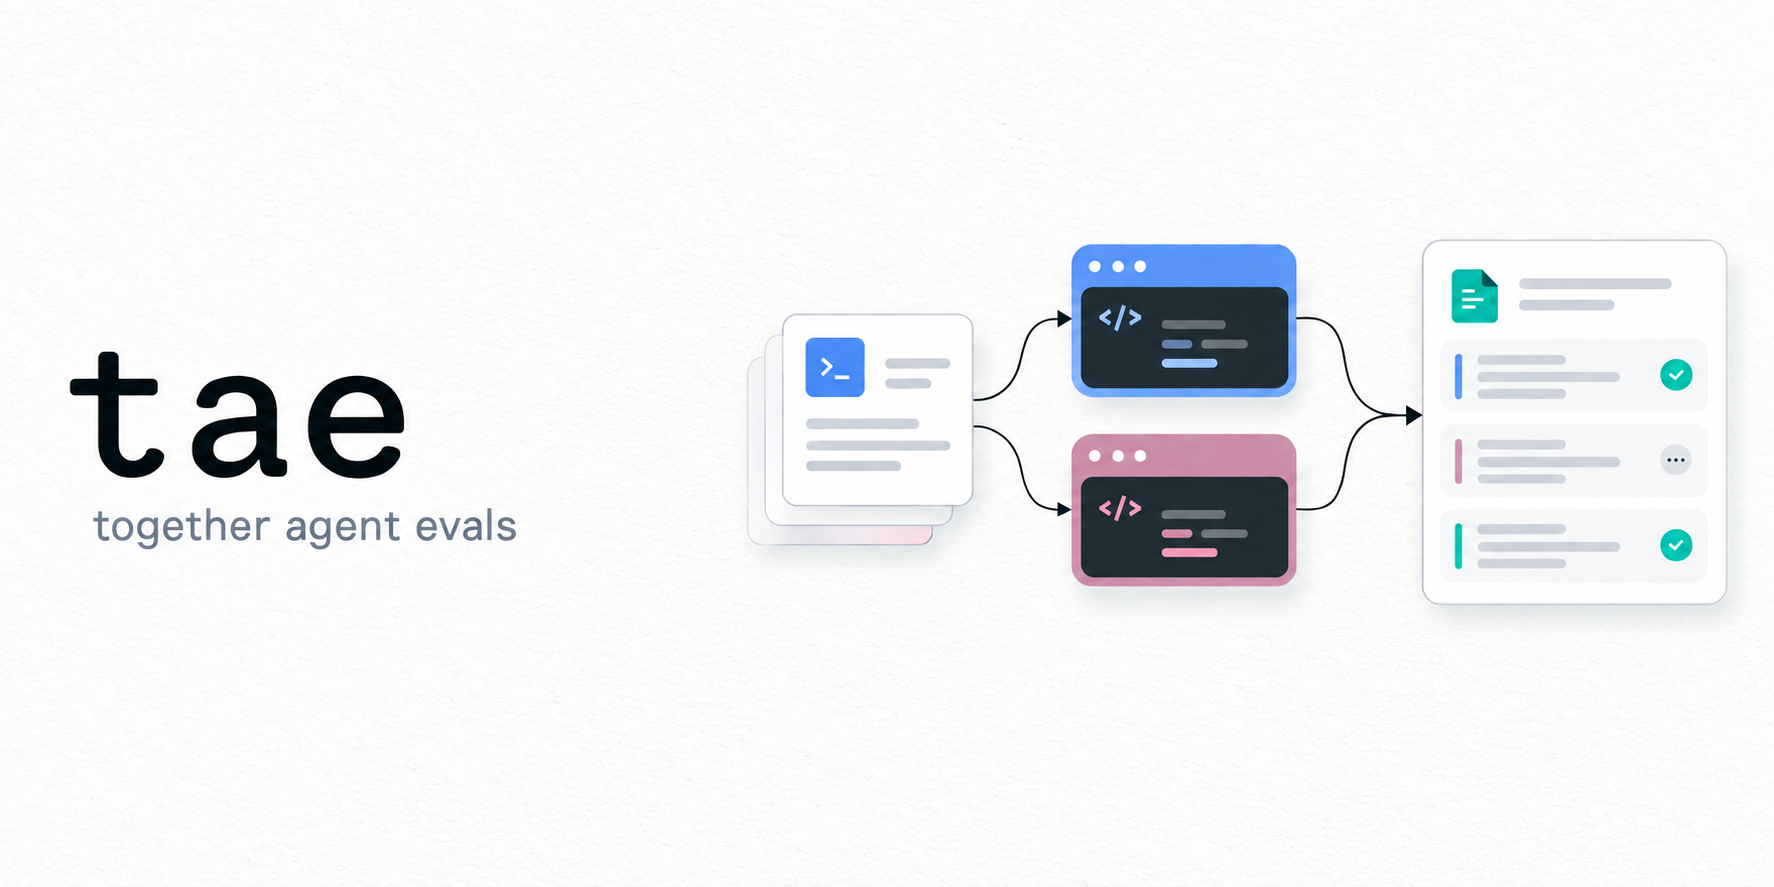
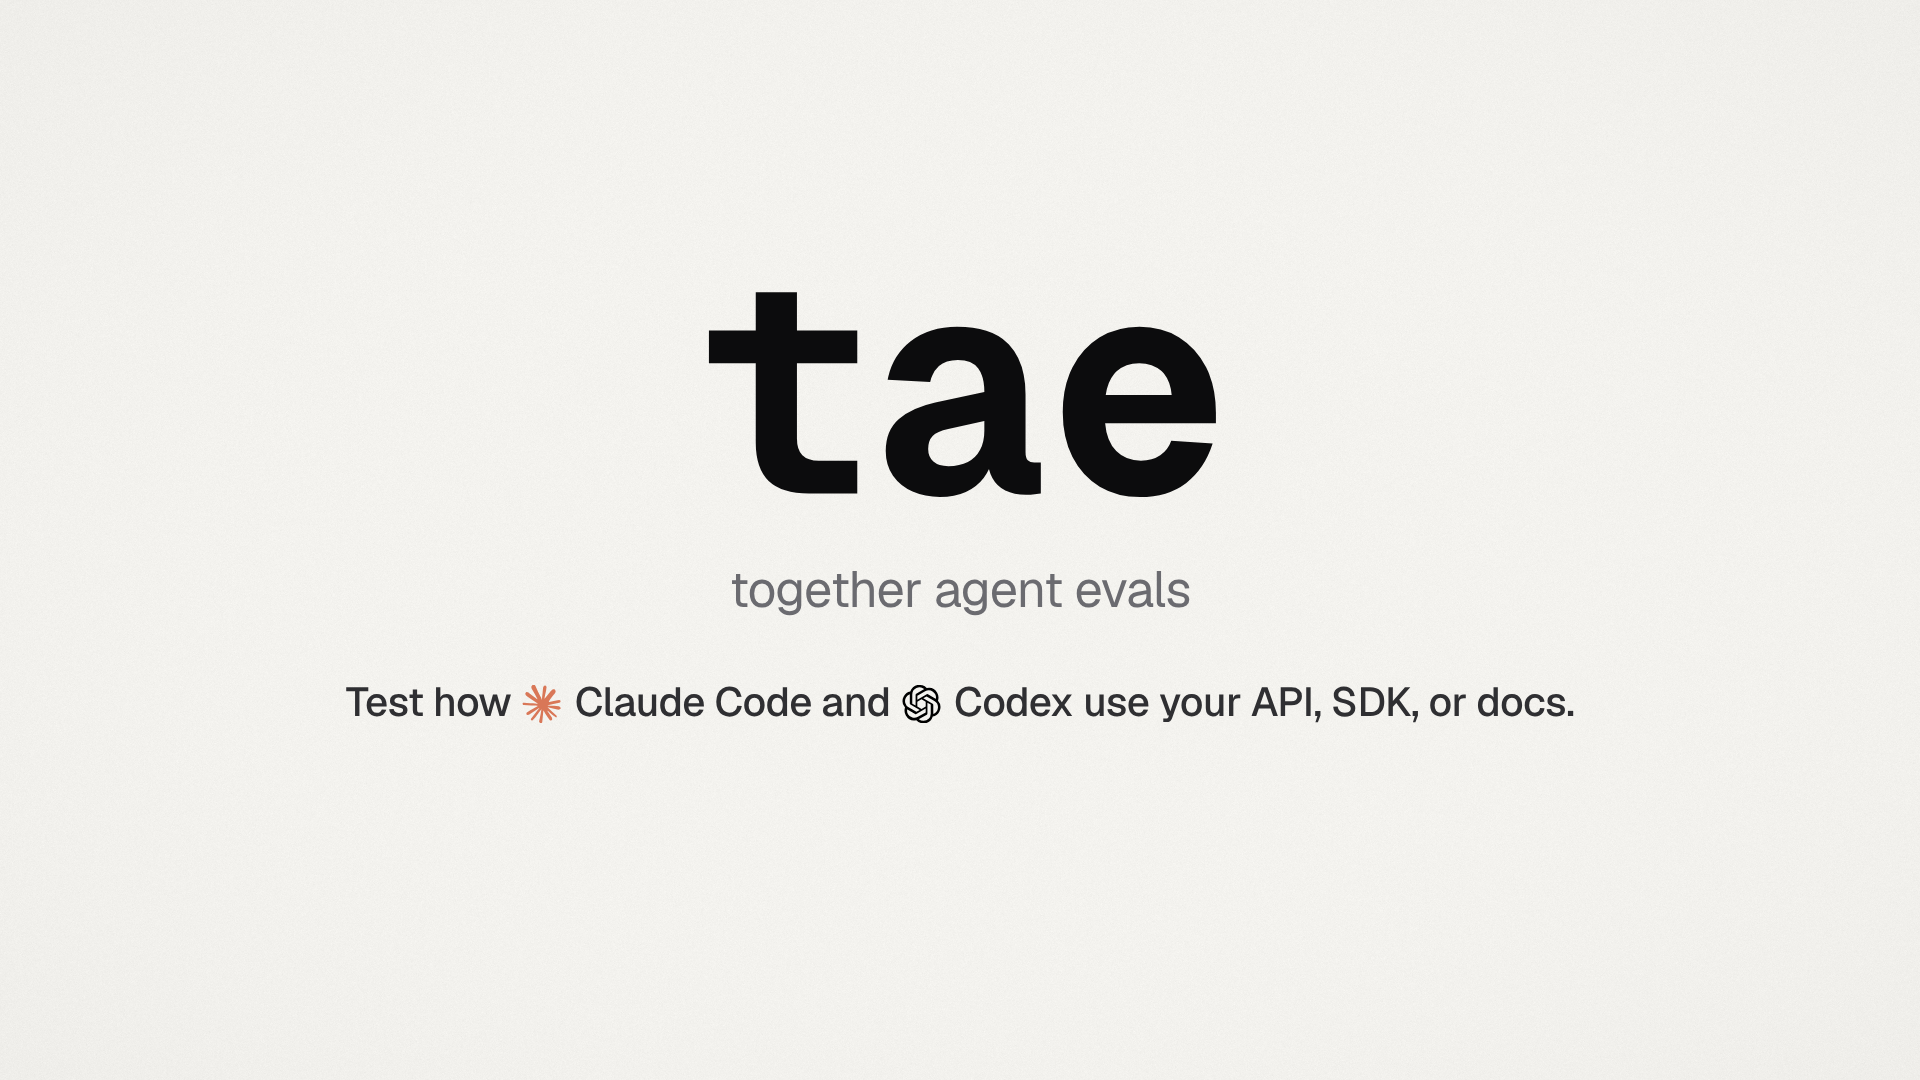
Make the README more concise (#13)
* Make the README more concise

* Use a neutral README section heading

* Use the launch poster as the README hero

diff --git a/README.md b/README.md
@@ -1,52 +1,56 @@
-![tae · together agent evals. Tasks run through coding agents and produce evidence for evaluation.](docs/assets/readme-hero.png)
+![TAE — Together Agent Evals. Test how Claude Code and Codex use your API, SDK, or docs.](docs/assets/readme-hero.png)
 
 # Together Agent Evals
 
-Test how Claude Code and Codex use an API, SDK, or documentation. Score each run
-with deterministic checks, an LLM Judge, or both, then inspect the saved evidence
-in a local viewer.
+Run Claude Code or Codex against real tasks and record what they did. Score each
+run with deterministic code, an LLM Judge, or both, then inspect the transcript,
+API calls, tool use, and artifacts in a local viewer.
 
 ## Quick start
 
-Quickstart runs one local task with Claude Code. Set either
-`ANTHROPIC_API_KEY` or `CLAUDE_CODE_OAUTH_TOKEN`, then run:
+Install Node.js 22.13 or newer and Claude Code, then clone the repository:
 
 ```sh
 git clone https://github.com/Nutlope/together-agent-evals.git
 cd together-agent-evals
+cp .env.example .env.local
+```
+
+Add either `ANTHROPIC_API_KEY` or `CLAUDE_CODE_OAUTH_TOKEN` to `.env.local`,
+then run:
+
+```sh
 npm run quickstart
 ```
 
-Quickstart installs dependencies, runs one copy-message task, and starts the
-viewer. It does not need a Together key, Judge, E2B account, or database. Your
-agent provider may charge for the run.
+This installs the local dependencies, runs the `copy-message` task, and opens
+the results viewer. It does not need a Together key, Judge, E2B account, or
+database.
 
-Results are saved in `.tae/results-v1`. Reopen them with:
-
-```sh
-npm run view
-```
-
-> [!WARNING]
 > Local runs execute agent code on your computer with network access. They are
-> not a security sandbox. Only run tasks, checks, and suites you trust.
+> not a security sandbox. Only run tasks, checks, and Suites you trust.
 
-E2B tasks can also prevent an exact expensive or destructive API request from
-reaching the provider. See [request blocking](docs/authoring.md#block-an-expensive-or-destructive-request).
+## How it works
 
-## Create a minimal evaluation
+1. A **Task** gives the agent a prompt and any files it needs.
+2. A **Suite** chooses the Tasks, agents, models, conditions, repeats, and
+   scoring mode.
+3. TAE runs the matrix, evaluates the captured evidence, and saves each result
+   for review and comparison.
+
+Create a starter Suite and run it with:
 
 ```sh
 npm run setup
-npm run tae -- init my-evals
-npm run tae -- validate my-evals/example.suite.mjs
-npm run tae -- run my-evals/example.suite.mjs --view
+npm run tae -- init
+npm run tae -- validate
+npm run tae -- run --view
 ```
 
-This creates one Suite and one Task:
+Each Task keeps its instructions and evaluation together:
 
 ```text
-my-evals/
+evals/
 ├── example.suite.mjs
 └── tasks/
     └── copy-message/
@@ -55,25 +59,7 @@ my-evals/
         └── fixtures/message.txt
 ```
 
-The Suite selects what runs and how it is scored:
-
-```js
-import { defineSuite } from "tae";
-
-export default defineSuite({
-  tasks: ["./tasks/copy-message"],
-  agents: [{ runner: "claude-code" }],
-  verdict: "code",
-});
-```
-
-The Task's `prompt.md` tells the Agent what to do:
-
-```md
-Read `fixtures/message.txt` and write its exact contents to `answer.txt`.
-```
-
-Its `checks.mjs` evaluates the captured result:
+Checks run against the captured result:
 
 ```js
 import { defineChecks } from "tae";
@@ -86,6 +72,7 @@ export default defineChecks((run) => {
     format: "text",
     maxBytes: 4096,
   });
+
   run.check({
     id: "exact-copy",
     passed: run.artifacts.text("answer.txt") === "Hello from the fixture.\n",
@@ -94,88 +81,19 @@ export default defineChecks((run) => {
 });
 ```
 
-A **Task** can also include workspace files and preventive guards. A **Suite**
-can add models, conditions, repeats, an LLM Judge, and additional Tasks without
-changing this basic structure.
+Use `code` for deterministic checks, `judge` for an LLM rubric, or `hybrid`
+when both must pass. Tasks can also block an exact expensive or destructive
+request before it reaches the provider.
 
-For an E2B Task, add an optional `guard.mjs` to prevent an exact request from
-reaching the API:
+## Included evaluations
 
-```js
-import { defineGuard } from "tae";
+The repository includes Together API tasks for chat, RAG search, tool calling,
+and GPU discovery. See [Together evaluations](evals/together/README.md) for the
+tasks, costs, credentials, and scoring behavior.
 
-export default defineGuard((guard) => {
-  guard.block.request({
-    id: "no-reservation",
-    method: "POST",
-    path: "/v1/compute/clusters",
-  });
-});
-```
+## Documentation
 
-TAE records each guard as a deterministic check. A forbidden attempt receives a
-synthetic `403` and is never forwarded to the target API.
-
-Choose one scoring mode:
-
-- `code`: deterministic checks decide the result.
-- `judge`: the Task's rubric decides the result.
-- `hybrid`: both the required checks and Judge must pass.
-
-See the [authoring guide](docs/authoring.md) and
-[copy-message example](examples/copy-message/example.suite.mjs).
-
-## Run the Together evaluations
-
-The included Together tasks cover chat, RAG search, tool calling, and GPU
-discovery without reservation.
-
-Add these credentials to the ignored `.env.local` file:
-
-```sh
-ANTHROPIC_API_KEY=...
-TOGETHER_API_KEY=...
-```
-
-Verify them before starting a paid run:
-
-```sh
-npm run preflight
-```
-
-Preflight makes small Anthropic and Together requests, so minimal provider
-charges may apply. Then run one cell:
-
-```sh
-npm run hybrid -- --task rag-search --condition baseline
-```
-
-Read [Together tasks, scoring, and costs](evals/together/README.md) before
-running a full Suite. These scores are not a continuation of the legacy trend.
-
-## Optional E2B and Postgres backends
-
-Local execution and filesystem storage are the defaults. E2B execution and
-Postgres storage are opt-in beta features.
-
-```sh
-npm run setup:backends
-npm run runtime:init -- e2b-postgres --template YOUR_E2B_TEMPLATE
-npm run db:migrate
-npm run preflight
-```
-
-See [E2B and Postgres setup](docs/beta-backends.md) for individual backend
-recipes and limitations.
-
-## Contribute
-
-```sh
-npm run setup:ci
-npm test
-npm run build
-```
-
-The tests do not call paid APIs. Read [CONTRIBUTING.md](CONTRIBUTING.md) before
-opening a pull request. Report vulnerabilities privately using
-[SECURITY.md](SECURITY.md).
+- [Authoring Tasks, Suites, checks, Judges, and request guards](docs/authoring.md)
+- [E2B and Postgres setup](docs/beta-backends.md)
+- [Copy-message example](examples/copy-message/example.suite.mjs)
+- [Contributing](CONTRIBUTING.md) and [security reporting](SECURITY.md)
